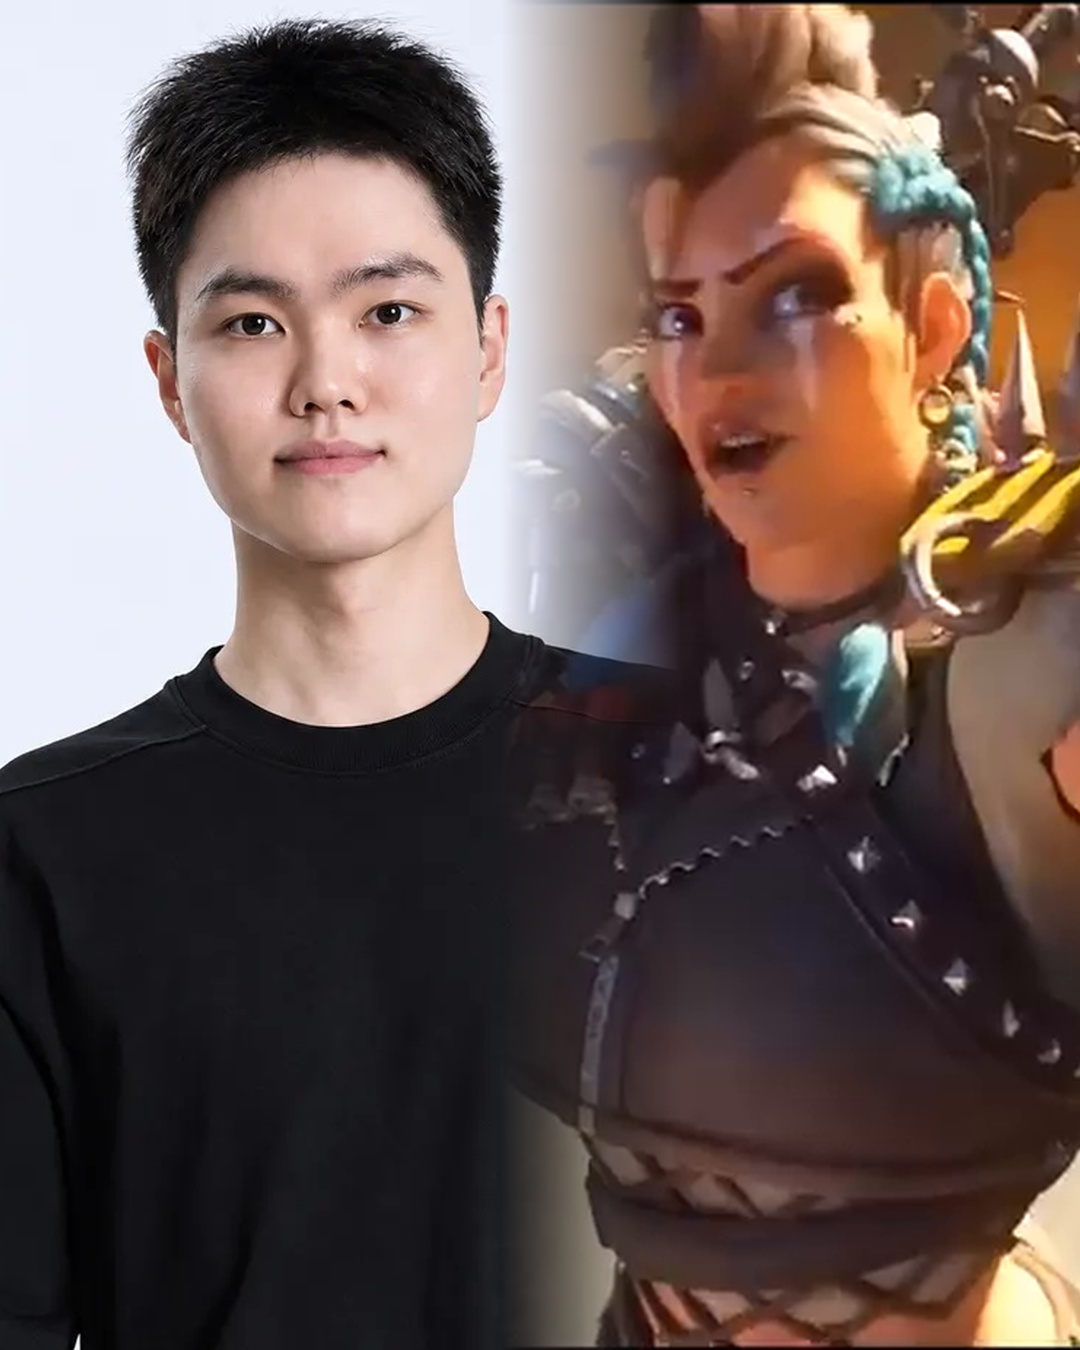
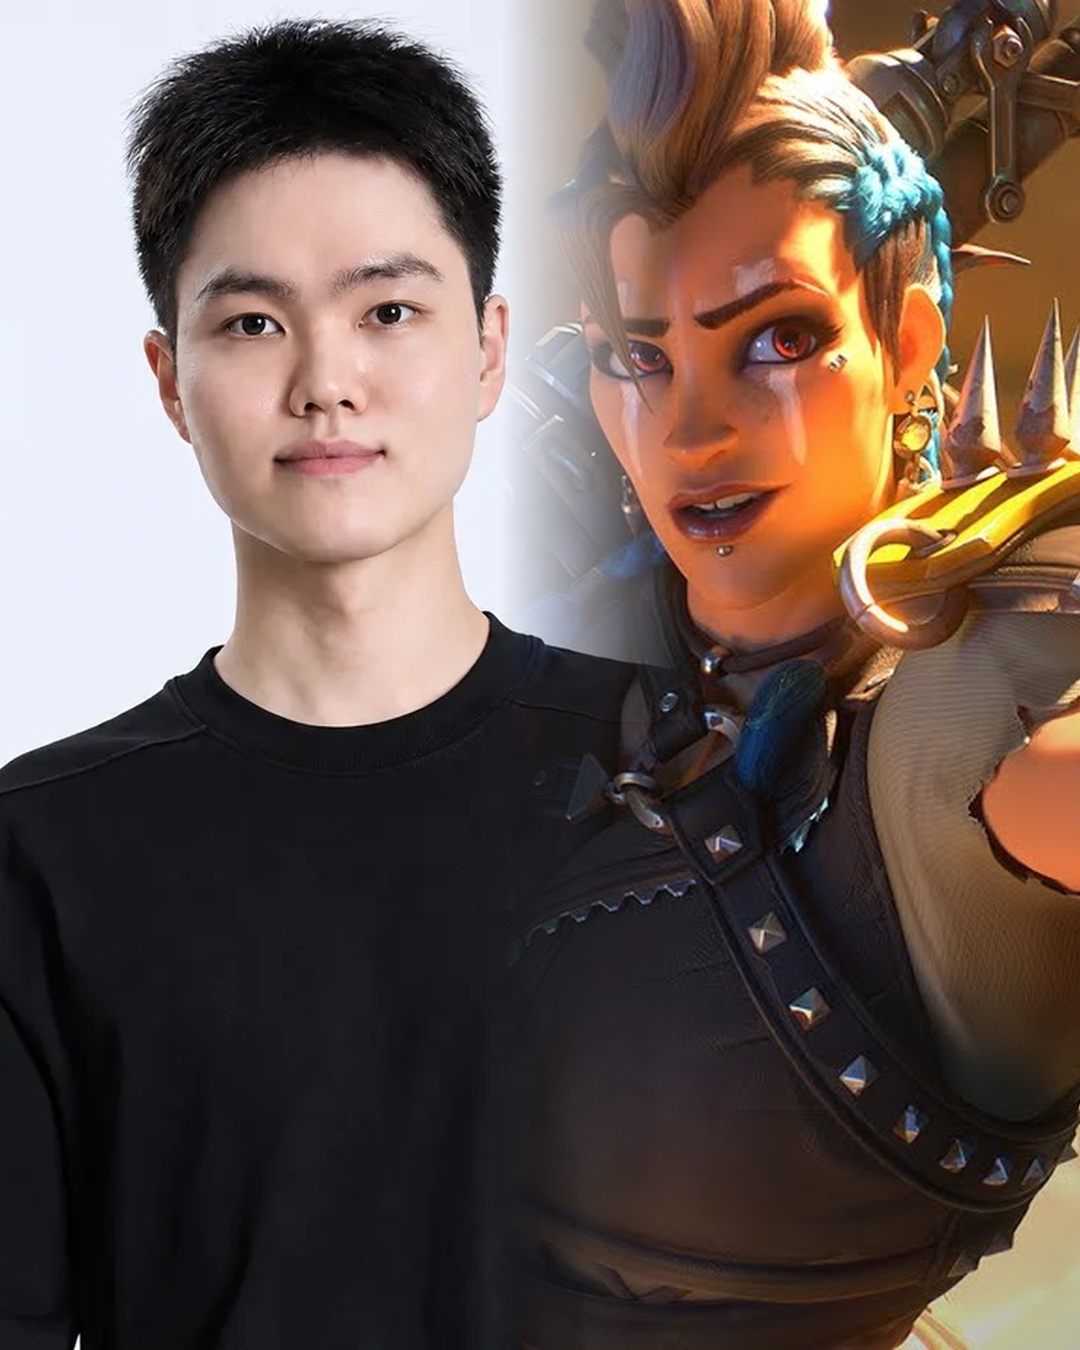
jinwoo-ow 표지: 정커퀸 고화질
Claude-Session: https://claude.ai/code/session_01FGsw5QnWxFUsnopcB1Czie

diff --git a/media/20261117-jinwoo-ow/build_cards.py b/media/20261117-jinwoo-ow/build_cards.py
@@ -90,7 +90,7 @@ print("ok")
 # 표지 배경(사용자 지정): 왼쪽 이진우 프로필 사진(사용자 제공), 오른쪽 정커퀸 — 가운데 경계는 페이드
 lee = Image.open(O / "lee_photo.jpg"); s = H / lee.height; lee = lee.resize((round(lee.width * s), H), Image.LANCZOS)
 Lc = Image.new("RGB", (W, H), (235, 238, 242)); Lc.paste(lee, (round(330 - 480 * s), 0))
-jq = ImageOps.fit(Image.open(O / "jq.png").convert("RGB").crop((180, 92, 700, 628)), (620, H), Image.LANCZOS, centering=(.5, .3))
+jq = ImageOps.fit(Image.open(O / "jq_hd.jpg").convert("RGB").crop((0, 0, 560, 720)), (620, H), Image.LANCZOS, centering=(.4, .3))  # 사용자 제공 고화질(오버워치 2 애니메이션 단편 썸네일), 로고 글자 빼고 자름
 Rc = Image.new("RGB", (W, H)); Rc.paste(jq, (W - 620, 0))
 row = Image.new("L", (W, 1)); row.putdata([0 if x < 500 else 255 if x > 680 else int(255 * (x - 500) / 180) for x in range(W)])
 mask = row.resize((W, H))
